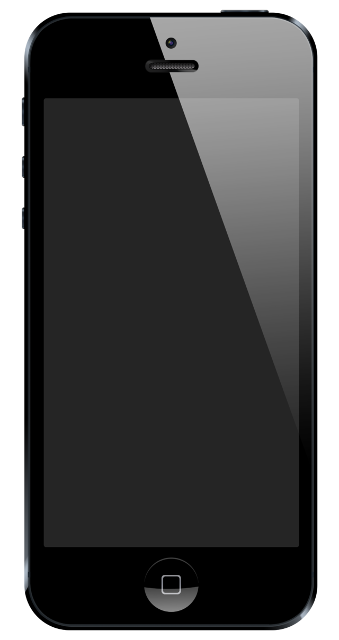
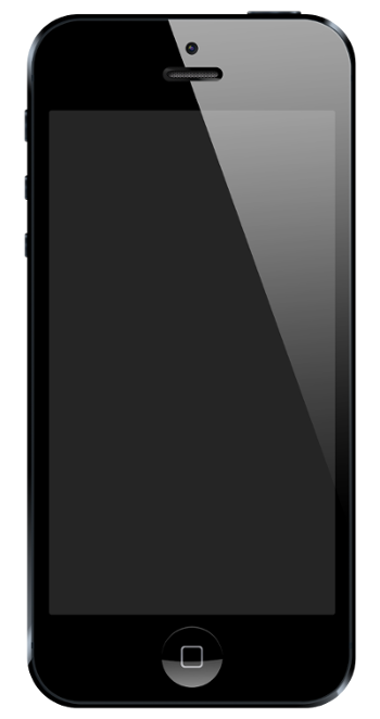
style

diff --git a/stylesheets/stylesheet.css b/stylesheets/stylesheet.css
@@ -481,12 +481,12 @@ footer a:hover {
 #phone{
 	background-image: url("../images/640px-IPhone_5.png");
 	background-repeat: no-repeat;
-	width: 330px;
-	height: 650px;
+	width: 380px;
+	height: 720px;
 }
 #live-demo-iframe{
-	margin-top: 98px;
-	margin-left: 43px;
-	width: 256px;
-	height: 450px;
+	margin-top: 110px;
+	margin-left: 50px;
+	width: 285px;
+	height: 510px;
 }
